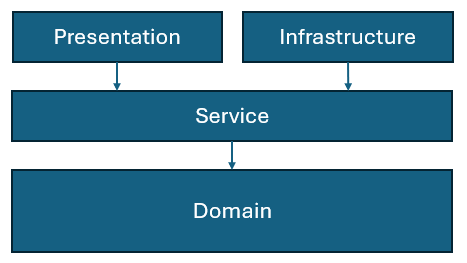
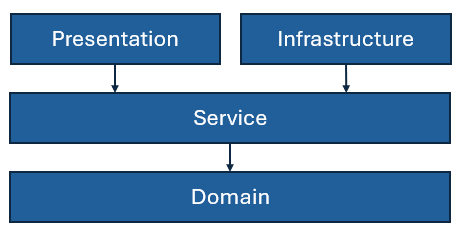
formatting improvements

diff --git a/static/assets/my.css b/static/assets/my.css
@@ -28,6 +28,13 @@ main > .intro {
 
 pre > code {
     font-size: 0.9rem;
+    white-space: pre;
+    overflow-x: auto;
+    display: block;
+}
+
+pre {
+    overflow-x: auto;
 }
 
 .img-center {

diff --git a/content/posts/2026-04-14-the-domain-model-pattern-in-practice.md b/content/posts/2026-04-14-the-domain-model-pattern-in-practice.md
@@ -9,14 +9,14 @@ editLink: "https://github.com/deniskyashif/blog/blob/main/content/posts/2026-04-
 
 # Transaction Scripts
 
-Most web applications follow a layered architecture: `Presentation → Service → Data`. The data layer holds plain entities — POCOs with public getters and setters — plus data access infrastructure. Business logic lives in the service layer, one method per use case. The presentation layer stays thin and simply delegates.
+Most web applications follow a layered architecture: `Presentation → Service → Data`. The data layer holds plain entities - POCOs with public getters and setters - plus data access infrastructure. Business logic lives in the service layer, one method per use case. The presentation layer stays thin and simply delegates.
 
 <img src="/images/posts/2026-04-14-the-domain-model-in-practice/3-tier-arch.png" alt="3 Tier Architecture" />
 
 Let's look at this simplified example of a banking application.
 
 ```csharp
-// Data layer — plain entities, no behavior
+// Data layer - plain entities, no behavior
 public class BankAccount
 {
     public int Id { get; set; }
@@ -25,7 +25,7 @@ public class BankAccount
     public bool IsFrozen { get; set; }
 }
 
-// Service layer — all business logic lives here
+// Service layer - all business logic lives here
 public class TransferService(IAccountRepository accounts, IUnitOfWork uow)
 {
     public void Transfer(int fromId, int toId, decimal amount)
@@ -54,7 +54,7 @@ public class TransferService(IAccountRepository accounts, IUnitOfWork uow)
 }
 ```
 
-This is also called a [Transaction Script](https://martinfowler.com/eaaCatalog/transactionScript.html): a single procedure per use case that reads data, runs the logic, and writes back the result. It looks clean and sensible — straightforward and easy to follow. But as business complexity grows, the cracks start to show.
+This is also called a [Transaction Script](https://martinfowler.com/eaaCatalog/transactionScript.html): a single procedure per use case that reads data, runs the logic, and writes back the result. It looks clean and sensible - straightforward and easy to follow. But as business complexity grows, the cracks start to show.
 
 One of the earliest signs of trouble is the scattering of cross-cutting business rules. Consider a rule like: *"a frozen account cannot perform any money operation."* In a transaction-script design, every service method that needs to enforce this rule must check it independently:
 
@@ -87,15 +87,15 @@ public class AtmWithdrawalService(IAccountRepository accounts)
 }
 ```
 
-This duplication is easy to miss and hard to fix. When the rule changes — say, *"frozen accounts may now receive money but not send it*" — we have to track down every place it was applied. Forget one, and we have a bug. A real application has hundreds of such rules; multiply that by the number of enforcement points and the codebase becomes fragile very fast.
+This duplication is easy to miss and hard to fix. When the rule changes - say, *"frozen accounts may now receive money but not send it*" - we have to track down every place it was applied. Forget one, and we have a bug. A real application has hundreds of such rules; multiply that by the number of enforcement points and the codebase becomes fragile very fast.
 
-This structure — objects that carry data but no behavior, with all logic pushed into a service layer — is called an [Anemic Domain Model](https://martinfowler.com/bliki/AnemicDomainModel.html). The entities look like a domain model on the surface, but they lack the one thing that makes object-oriented design worthwhile: behavior.
+This structure - objects that carry data but no behavior, with all logic pushed into a service layer - is called an [Anemic Domain Model](https://martinfowler.com/bliki/AnemicDomainModel.html). The entities look like a domain model on the surface, but they lack the one thing that makes object-oriented design worthwhile: behavior.
 
 Additionally, entities that expose public setters allow any part of the codebase to mutate state directly. That makes business invariants harder to enforce consistently. For example, any caller can set `Balance` to an arbitrary value without going through withdrawal/deposit rules (insufficient funds checks, positive amount checks, auditing, etc.).
 
 # Implementing the Domain Model Pattern
 
-A domain model encapsulates both data and behavior in the same objects — it is where business invariants live and are consistently enforced. Let's refactor the previous example:
+A domain model encapsulates both data and behavior in the same objects - it is where business invariants live and are consistently enforced. Let's refactor the previous example:
 
 ```csharp
 public sealed record AccountId(int Value);
@@ -155,43 +155,43 @@ public sealed class BankAccount
             throw new InvalidOperationException("Frozen accounts cannot send money.");
     }
 
-    public void Withdraw(Money amount)
+    public void Withdraw(Money money)
     {
         EnsureCanSendMoney();
 
-        if (amount.Amount <= 0)
+        if (money.Amount <= 0)
             throw new ArgumentException("Amount must be positive.");
 
-        Balance = Balance.Subtract(amount);
+        Balance = Balance.Subtract(money);
     }
 
-    public void Deposit(Money amount)
+    public void Deposit(Money money)
     {
-        if (amount.Amount <= 0)
+        if (money.Amount <= 0)
             throw new ArgumentException("Amount must be positive.");
 
-        Balance = Balance.Add(amount);
+        Balance = Balance.Add(money);
     }
 }
 
 // Thin application service: orchestration only.
 public sealed class TransferMoneyHandler(IAccountRepository accounts, IUnitOfWork uow)
 {
-    public void Handle(AccountId fromId, AccountId toId, Money amount)
+    public void Handle(AccountId fromId, AccountId toId, Money money)
     {
         uow.ExecuteInTransaction(() =>
         {
             var from = accounts.GetById(fromId);
             var to = accounts.GetById(toId);
 
-            from.Withdraw(amount);
-            to.Deposit(amount);
+            from.Withdraw(money);
+            to.Deposit(money);
         });
     }
 }
 ```
 
-The rules now live in the domain objects and are enforced in one place. Notice that `Money` is a **value object** — it bundles amount and currency together and owns the behavior for combining them. This is more expressive than a raw `decimal`:
+The rules now live in the domain objects and are enforced in one place. Notice that `Money` is a **value object** - it bundles amount and currency together and owns the behavior for combining them. This is more expressive than a raw `decimal`:
 
 - `Money.Add()` and `Money.Subtract()` enforce currency compatibility at runtime; mixing currencies throws an exception rather than silently producing wrong results.
 - Invalid state (negative amounts, missing currency) is impossible to construct.
@@ -201,7 +201,7 @@ Value objects are immutable and compared by their content, not identity. When we
 
 The service layer is pure orchestration. A rich domain model makes business rules evident and explicit, which makes them easier to reason about, understand, and change.
 
-Because business behavior changes often, the domain layer should be easy to evolve and test — which means keeping it free of dependencies on web frameworks, ORMs, or transport concerns.
+Because business behavior changes often, the domain layer should be easy to evolve and test - which means keeping it free of dependencies on web frameworks, ORMs, or transport concerns.
 
 ## Dependency Inversion
 
@@ -209,7 +209,7 @@ In the transaction-script setup, the data layer often contains both repository c
 
 ## The Pipeline
 
-The dependency flow becomes: `Presentation and Infrastructure → Service → Domain` — low-level concerns at the edges, business behavior at the base. The service layer loads aggregates, invokes domain behavior, and persists results.
+The dependency flow becomes: `Presentation and Infrastructure → Service → Domain` - low-level concerns at the edges, business behavior at the base. The service layer loads aggregates, invokes domain behavior, and persists results.
 
 <img src="/images/posts/2026-04-14-the-domain-model-in-practice/ddd-arch.png" alt="DDD Architecture" />
 
